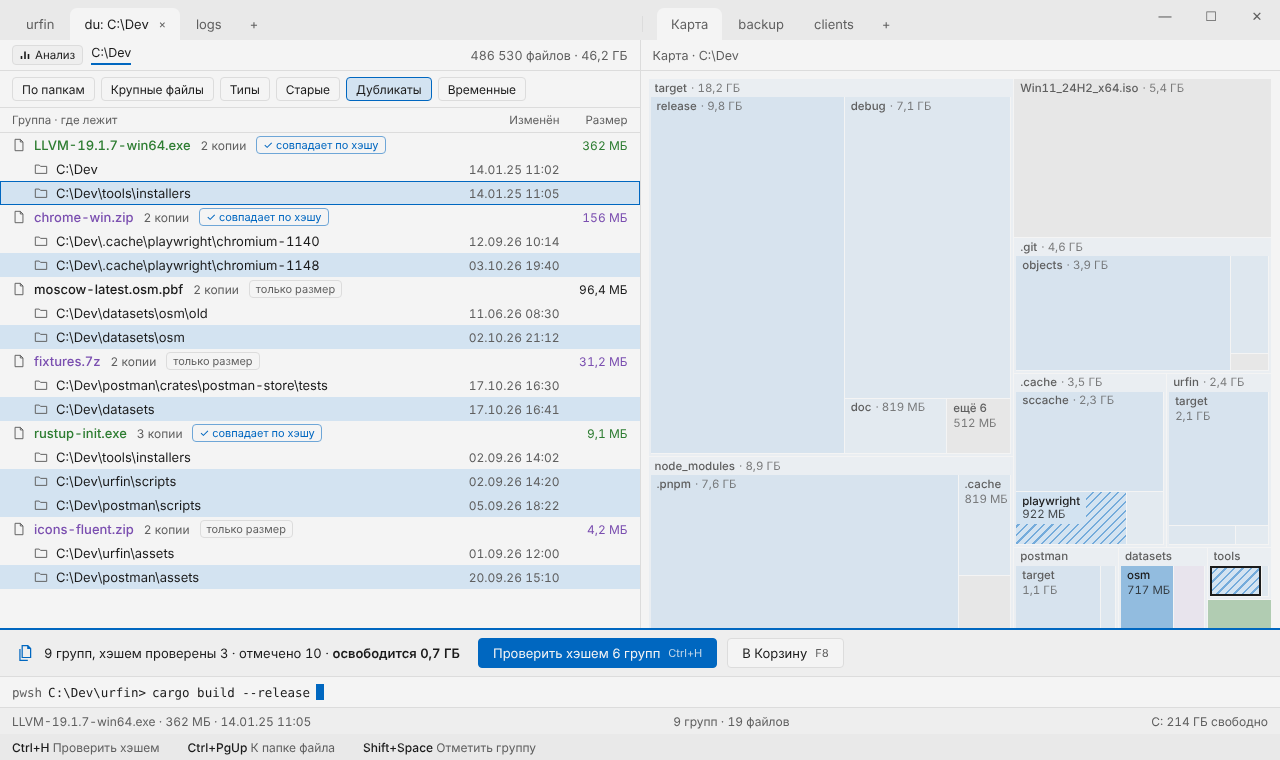
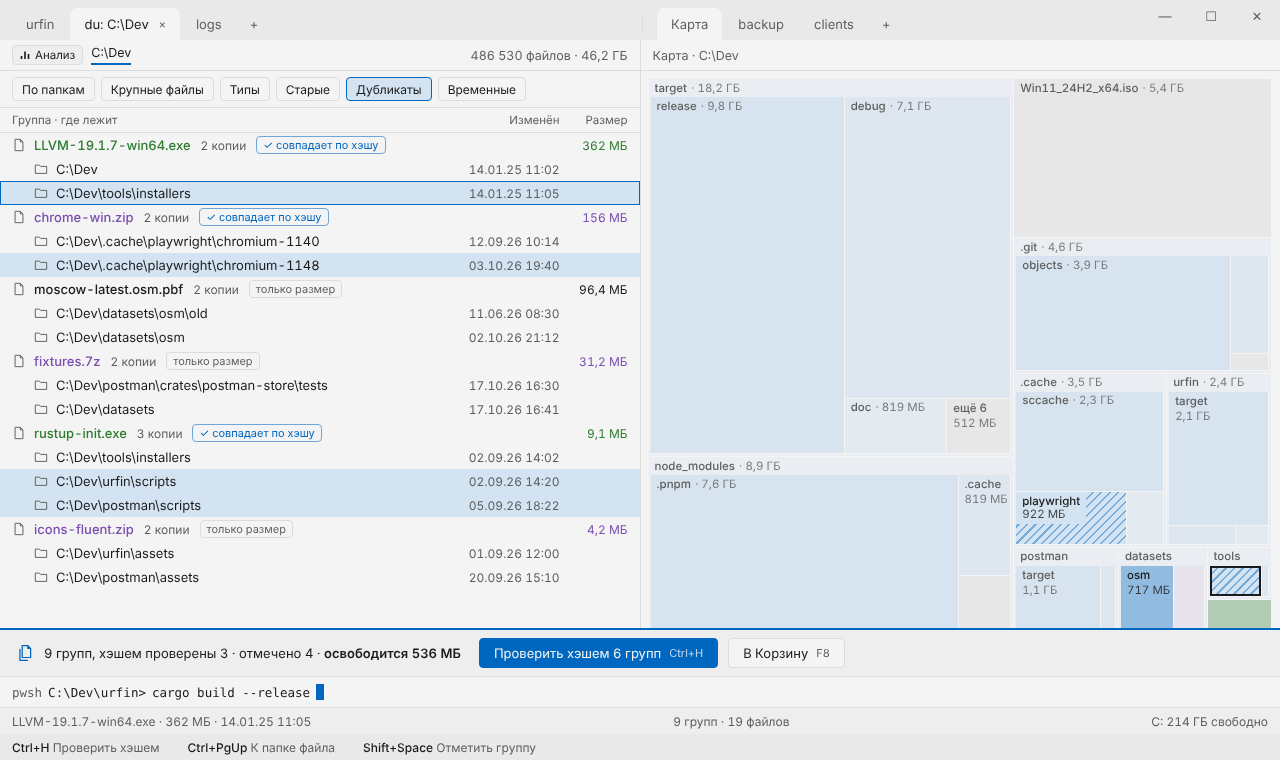
design: duplicates — auto-mark only hash-confirmed groups (F01 §8) (#148)
Claude-Session: https://claude.ai/code/session_013ZpcYnbJMYkHW4aMDDmFTq

diff --git a/docs/design/window.dc.html b/docs/design/window.dc.html
@@ -92,7 +92,7 @@ body{margin:0}
 <sc-if value="{{dmBarOn}}" hint-placeholder-val="{{ false }}">
 <div style="{{dmBar}}" role="group" aria-label="Дубликаты">
 <span style="display: inline-flex; color: {{t.a}}"><svg width="18" height="18" viewBox="0 0 16 16" aria-hidden="true"><path d="M5.5 1.5h5l2.5 2.5v8h-7.5z M10.5 1.5v2.5h2.5" fill="none" stroke="currentColor" stroke-width="1.1"></path><path d="M3.5 4.5v10h7" fill="none" stroke="currentColor" stroke-width="1.1"></path></svg></span>
-<span>9 групп, хэшем проверены 3 · отмечено 10 · <span style="font-weight: 600">освободится 0,7 ГБ</span></span>
+<span>9 групп, хэшем проверены 3 · отмечено 4 · <span style="font-weight: 600">освободится 536 МБ</span></span>
 <button type="button" style="margin-left: 8px; {{btnPrimary}}">Проверить хэшем 6 групп <span style="font-size: 11px; opacity: 0.8">Ctrl+H</span></button>
 <button type="button" style="{{btn}}">В Корзину <span style="font-size: 11px; color: {{t.s}}">F8</span></button>
 </div>
@@ -2262,7 +2262,7 @@ const D = [["LLVM-19.1.7-win64.exe","362 МБ",1,[["C:\\Dev","14.01.25 11:02"],[
 D.forEach((g, gi) => {
 const kk = /\.exe$/.test(g[0]) ? "x" : /\.(7z|zip)$/.test(g[0]) ? "a" : "f";
 rowsL.push(mk({ name: g[0], k: kk, sub: g[3].length + " копии", badge: g[2] ? "✓ совпадает по хэшу" : "только размер", ok: !!g[2], size: g[1], bold: true }));
-g[3].forEach((m, mi) => rowsL.push(mk({ name: m[0], k: "d", ind: 22, date: m[1], m: mi > 0, c: gi === 0 && mi === 1 })));
+g[3].forEach((m, mi) => rowsL.push(mk({ name: m[0], k: "d", ind: 22, date: m[1], m: mi > 0 && !!g[2], c: gi === 0 && mi === 1 })));
 });
 rowsL.forEach((r) => { if (r.isDir && r.name.indexOf("C:\\") === 0) { r.nameSt = r.nameSt.replace("font-weight: 500", "font-weight: 400"); } });
 } else {

diff --git a/docs/design/DESIGN.md b/docs/design/DESIGN.md
@@ -102,7 +102,7 @@
 | `screen-ducached.png` | Повторное открытие из кэша: «посчитано 2 ч назад · ● изменено N папок» + «Обновить»; у папок со сменившимся mtime — точка `context_remote` у размера | F-01 |
 | `screen-dunoaccess.png` | Без прав: последняя строка «нет доступа: N папок · размер неизвестен» (замок); предупреждение `warning_bg` + «Досчитать с правами администратора» (щит, отдельный процесс через UAC — ADR) | F-01 |
 | `screen-dumap.png` | Карта (squarified, 2 уровня) во второй панели — текущая папка списка; цвет по типу из ролей, границы 1 `panel`, подписи — где помещаются; курсор — рамка 2 `text`, отмеченные — `cursor` со штриховкой; легенда внизу | F-01 |
-| `screen-dutypes.png`, `screen-dudups.png`, `screen-dutemp.png` | Фильтры: Типы — группы с суммой, числом файлов и полосой, Enter раскрывает; Дубликаты — группы «N копии», «совпадает по хэшу» / «только размер», отмечены все кроме первой, «Проверить хэшем N групп»; Временные — предупреждение сверху, ничего не отмечено, у строки — что это | F-01 |
+| `screen-dutypes.png`, `screen-dudups.png`, `screen-dutemp.png` | Фильтры: Типы — группы с суммой, числом файлов и полосой, Enter раскрывает; Дубликаты — группы «N копии», «совпадает по хэшу» / «только размер», отмечены все кроме первой — только в группах, совпавших по хэшу; «только размер» не отмечаются; «Проверить хэшем N групп» (Ctrl+H); Временные — предупреждение сверху, ничего не отмечено, у строки — что это | F-01 |
 | `screen-pkginstalled.png`, `screen-pkgupdates.png` | Пакеты: вкладка `pkg:` (чип «Пакеты», «winget · scoop»), фильтры Установленные / Обновления N / Найти; колонки Программа · Версия · Доступна (`accent`) · Менеджер («вне менеджера» `secondary`) · Издатель; обновления — «важное» сверху, строка «Обновить N · размер» + «Обновить все»; ход — job-бар, вывод — Ctrl+O | F-02 |
 | `screen-pkgbanner.png` | Проверка по расписанию: баннер со вспышкой «Доступно N обновлений · M важных — проверено …» + Показать / Позже | F-02 |
 | `screen-settings-pkg.png` | Раздел «Пакеты»: порядок менеджеров (не найденный — пунктир), поиск по умолчанию — все, расписание (выкл.; Планировщик Windows), важные программы — чипы, вывод — терминал, права — UAC менеджера | F-02 |
